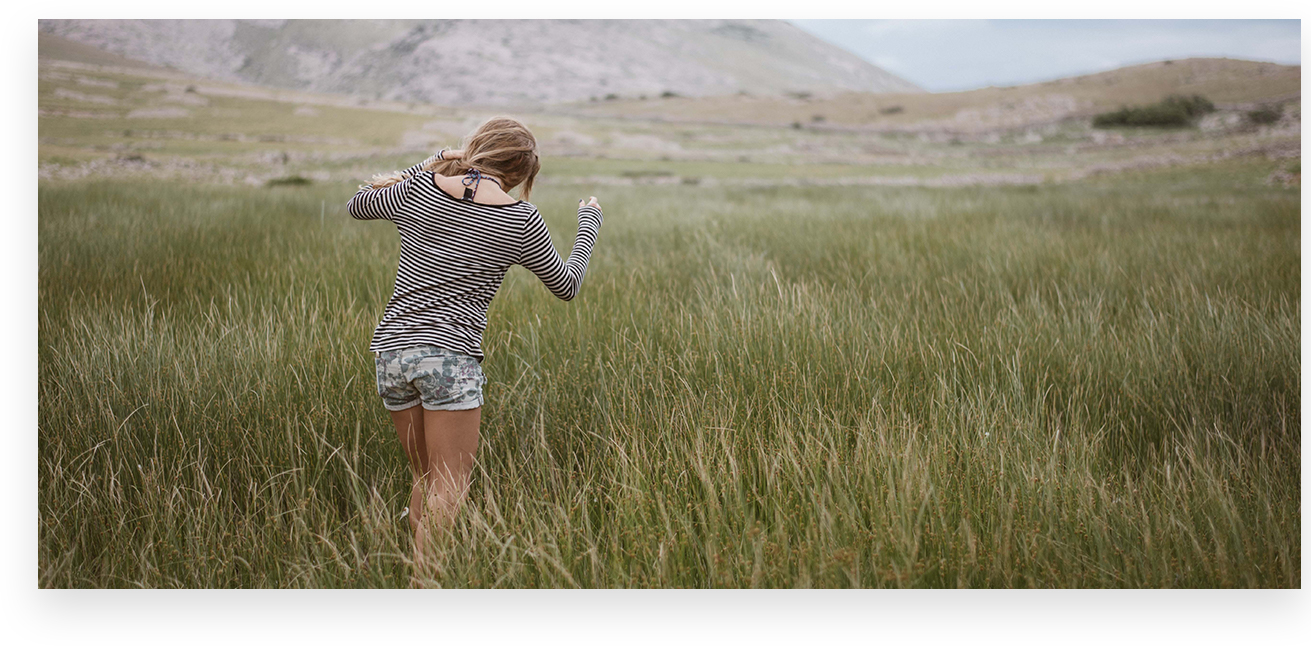
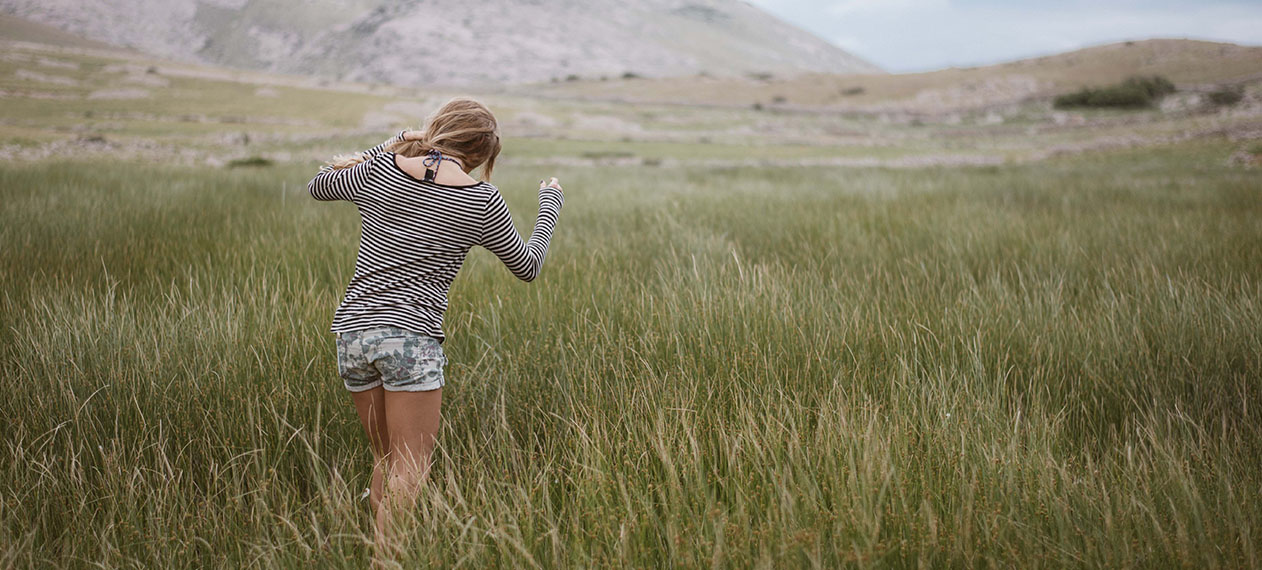
slider life done

diff --git a/css/blocks/main.css b/css/blocks/main.css
@@ -127,7 +127,7 @@
 	font-weight: 600;
 	text-transform: uppercase;
 	text-align: center;
-	font-style: 28px;
+	font-size: 28px;
 	line-height: 81PX;
 	letter-spacing: 5.6px;
 	color: #fff;
@@ -147,8 +147,8 @@
 	width: 335px;
 	position: absolute;
 	left: 50%;
-	transform: translateX(-50%);
 	bottom: 54px;
+	transform: translateX(-50%);
 	display: -webkit-flex;
 	display: -moz-flex;
 	display: -ms-flex;
@@ -163,13 +163,13 @@
 .readmore .readmore-text a {
 	font-family: 'Myriad Pro', Arial, sans-serif;
 	font-weight: 600;
-	font-size: 32px;
+	font-size: 24px;
 	font-style: italic;
 	color: #fff;
 }
 
 .readmore .readmore-text i {
-	font-size: 32px;
+	font-size: 24px;
 }
 
 .trekking-block {
@@ -263,6 +263,7 @@
 	display: -o-flex;
 	display: flex;
 	padding: 0 !important;
+	margin-bottom: 72px;
 }
 
 .food-travel [class^="block-"] .readmore {
@@ -274,6 +275,10 @@
 	background-repeat: no-repeat;
 	background-image: url("../../img/hand-hold.jpg");
 	margin-bottom: 37px;
+}
+
+.food-travel [class^="block-"] .readmore:hover {
+	box-shadow: 0 19px 36px 0 rgba(0, 0, 0, 0.15);
 }
 
 .food-travel .block-2 .readmore {
@@ -310,4 +315,181 @@
 .food-travel .block-step-text {
 	max-width: 100%;
 	padding-bottom: 72px;
+}
+
+/* slider */
+.lifestyle-slider {
+	position: relative;
+	width: 1248px;
+}
+
+.lifestyle-slider .lifestyle-block {
+	box-shadow: 0 0 0 0 rgba(0, 0, 0, 0.33);
+}
+
+.lifestyle-slider .lifestyle-block .image-lifestyle {
+	background-image: url("../../img/field.jpg");
+
+}
+
+.lifestyle-slider input {
+	display: none;
+}
+
+.lifestyle-slider-inner {
+	overflow-x: hidden;
+}
+
+.lifestyle-slider-slides {
+	width: 300%;
+	display: -webkit-flex;
+	display: -moz-flex;
+	display: -ms-flex;
+	display: -o-flex;
+	display: flex;
+	transition: all 1s ease;
+}
+
+.lifestyle-slider-slides [class^="slide-"] {
+	width: 1248px;
+}
+
+.lifestyle-slider-controls {
+	position: absolute;
+	bottom: 0;
+	left: 50%;
+	transform: translateX(-50%);
+	width: 1120px;
+}
+
+.lifestyle-slider-controls .arrows {
+	position: relative;
+}
+
+
+.lifestyle-slider-controls .buttons {
+	position: relative;
+	width: 200px;
+	bottom: -33px;
+	left: 50%;
+	transform: translateX(-50%);
+	display: -webkit-flex;
+	display: -moz-flex;
+	display: -ms-flex;
+	display: -o-flex;
+	display: flex;
+	justify-content: space-between;
+}
+
+.lifestyle-slider-controls .buttons label {
+	width: 55px;
+	height: 49px;
+	border-radius: 50%;
+	font-size: 20px;
+	font-weight: 700;
+	color: #413f3f;
+	line-height: 49px;
+	vertical-align: middle;
+	text-align: center;
+}
+
+#life-btn-1:checked ~ .lifestyle-slider-controls .buttons label:nth-child(1),
+#life-btn-2:checked ~ .lifestyle-slider-controls .buttons label:nth-child(2),
+#life-btn-3:checked ~ .lifestyle-slider-controls .buttons label:nth-child(3) {
+	background-color: #ffc908;
+}
+
+/* left arrow */
+#life-btn-1:checked ~ .lifestyle-slider-controls .arrows label:nth-child(3),
+#life-btn-2:checked ~ .lifestyle-slider-controls .arrows label:nth-child(1),
+#life-btn-3:checked ~ .lifestyle-slider-controls .arrows label:nth-child(2) {
+	position: absolute;
+	display: block;
+	top: 0;
+	left: 0;
+	width: 21px;
+	height: 10px;
+	background-image: url("../../img/slider-arrow.png");
+	z-index: 10;
+}
+
+#life-btn-1:checked ~ .lifestyle-slider-controls .arrows label:nth-child(3) {
+	opacity: 0.3;
+}
+
+#life-btn-1:checked ~ .lifestyle-slider-controls .arrows label:nth-child(3):active,
+#life-btn-2:checked ~ .lifestyle-slider-controls .arrows label:nth-child(1):active,
+#life-btn-3:checked ~ .lifestyle-slider-controls .arrows label:nth-child(2):active {
+	-webkit-filter: invert(1);
+	filter: invert(1);
+}
+
+#life-btn-1:checked ~ .lifestyle-slider-controls .arrows label:nth-child(3)::before,
+#life-btn-2:checked ~ .lifestyle-slider-controls .arrows label:nth-child(1)::before,
+#life-btn-3:checked ~ .lifestyle-slider-controls .arrows label:nth-child(2)::before {
+	position: absolute;
+	content: "Previous";
+	top: 50%;
+	left: 37px;
+	font-weight: 700;
+	color:  #575c5c;
+	font-size: 24px;
+	top: 50%;
+	transform: translateY(-50%);
+}
+
+#life-btn-1:checked ~ .lifestyle-slider-controls .arrows label:nth-child(3)::before {
+	color:  #959595;
+}
+
+/* right arrow */
+#life-btn-1:checked ~ .lifestyle-slider-controls .arrows label:nth-child(2),
+#life-btn-2:checked ~ .lifestyle-slider-controls .arrows label:nth-child(3),
+#life-btn-3:checked ~ .lifestyle-slider-controls .arrows label:nth-child(1) {
+	position: absolute;
+	display: block;
+	width: 21px;
+	height: 10px;
+	right: 0;
+	background-image: url("../../img/slider-arrow.png");
+	transform: scaleX(-1);
+}
+
+#life-btn-3:checked ~ .lifestyle-slider-controls .arrows label:nth-child(1) {
+	opacity: 0.3;
+}
+
+#life-btn-1:checked ~ .lifestyle-slider-controls .arrows label:nth-child(2):active,
+#life-btn-2:checked ~ .lifestyle-slider-controls .arrows label:nth-child(3):active,
+#life-btn-3:checked ~ .lifestyle-slider-controls .arrows label:nth-child(1):active {
+	-webkit-filter: invert(1);
+	filter: invert(1);
+}
+
+#life-btn-1:checked ~ .lifestyle-slider-controls .arrows label:nth-child(2):before,
+#life-btn-2:checked ~ .lifestyle-slider-controls .arrows label:nth-child(3):before,
+#life-btn-3:checked ~ .lifestyle-slider-controls .arrows label:nth-child(1):before {
+	position: absolute;
+	content: "Next";
+	top: -14px;
+	right: -70px;
+	font-weight: 700;
+	color:  #575c5c;
+	font-size: 24px;
+	transform: translateY(-50%);
+	transform: scaleX(-1);
+}
+
+#life-btn-3:checked ~ .lifestyle-slider-controls .arrows label:nth-child(1):before {
+	color:  #959595;
+}
+
+#life-btn-1:checked ~ .lifestyle-slider-inner .lifestyle-slider-slides {
+	transform: translateX(0);
+}
+#life-btn-2:checked ~ .lifestyle-slider-inner .lifestyle-slider-slides {
+	transform: translateX(-1248px);
+}
+#life-btn-3:checked ~ .lifestyle-slider-inner .lifestyle-slider-slides {
+	transform: translateX(-2496px);
 }

diff --git a/index.html b/index.html
@@ -294,8 +294,8 @@
 								<div class="readmore-wrap">
 									<a href="#">Readmore</a>
 									<div class="readmore-text">
-										<p>April 19, 2017</p>
-										<a href="#"><i class="far fa-heart"></i>100</a>
+										<p>April 19, 2017</p><span>.</span>
+										<a href="#"><i class="far fa-heart"></i>100</a><span>.</span>
 										<a href="#"><i class="far fa-comment"></i>20</a>
 									</div>
 								</div>
@@ -323,8 +323,8 @@
 								<div class="readmore-wrap">
 									<a href="#">Readmore</a>
 									<div class="readmore-text">
-										<p>April 19, 2017</p>
-										<a href="#"><i class="far fa-heart"></i>100</a>
+										<p>April 19, 2017</p><span>.</span>
+										<a href="#"><i class="far fa-heart"></i>100</a><span>.</span>
 										<a href="#"><i class="far fa-comment"></i>20</a>
 									</div>
 								</div>
@@ -343,6 +343,96 @@
 										<a class="social-btn fb-btn" href="#"><i class="fab fa-facebook-f"></i></a>
 										<a class="social-btn tt-btn" href="#"><i class="fab fa-twitter"></i></a>
 										<a class="social-btn ig-btn" href="#"><i class="fab fa-instagram"></i></a>
+									</div>
+								</div>
+							</div>
+						</div>
+					</div>
+					<div class="lifestyle-slider">
+						<input id="life-btn-1" type="radio" name="switch">
+						<input id="life-btn-2" type="radio" name="switch" checked>
+						<input id="life-btn-3" type="radio" name="switch">
+						<div class="lifestyle-slider-controls">
+							<div class="buttons">
+								<label for="life-btn-1">1</label>
+								<label for="life-btn-2">2</label>
+								<label for="life-btn-3">3</label>
+							</div>
+							<div class="arrows">
+								<label for="life-btn-1"></label>
+								<label for="life-btn-2"></label>
+								<label for="life-btn-3"></label>
+							</div>
+						</div>
+						<div class="lifestyle-slider-inner">
+							<div class="lifestyle-slider-slides">
+								<div class="slide-1">
+									<div class="lifestyle-block content-blocks">
+										<div class="image-lifestyle">
+										</div>
+										<p class="title3">Lifestyle</p>
+										<div class="lifestyle-text">
+											<p>The Vermont Delegation Mourns the Sanders Campaign</p>
+											<div class="inner-text">
+												<span>March 22, 2017</span><span>.</span>
+												<a href="#"><i class="far fa-heart"></i>100 Likes</a><span>.</span>
+												<a href="#"><i class="far fa-comment"></i>20 Comment</a>
+											</div>
+										</div>
+										<div class="block-step-text">
+											<a class="btn" href="#">Readmore</a>
+											<div class="step-text-social">
+												<a class="social-btn fb-btn" href="#"><i class="fab fa-facebook-f"></i></a>
+												<a class="social-btn tt-btn" href="#"><i class="fab fa-twitter"></i></a>
+												<a class="social-btn ig-btn" href="#"><i class="fab fa-instagram"></i></a>
+											</div>
+										</div>
+									</div>
+								</div>				
+								<div class="slide-2">
+									<div class="lifestyle-block content-blocks">
+										<div class="image-lifestyle">
+										</div>
+										<p class="title3">Lifestyle</p>
+										<div class="lifestyle-text">
+											<p>The Vermont Delegation Mourns the Sanders Campaign</p>
+											<div class="inner-text">
+												<span>March 22, 2017</span><span>.</span>
+												<a href="#"><i class="far fa-heart"></i>100 Likes</a><span>.</span>
+												<a href="#"><i class="far fa-comment"></i>20 Comment</a>
+											</div>
+										</div>
+										<div class="block-step-text">
+											<a class="btn" href="#">Readmore</a>
+											<div class="step-text-social">
+												<a class="social-btn fb-btn" href="#"><i class="fab fa-facebook-f"></i></a>
+												<a class="social-btn tt-btn" href="#"><i class="fab fa-twitter"></i></a>
+												<a class="social-btn ig-btn" href="#"><i class="fab fa-instagram"></i></a>
+											</div>
+										</div>
+									</div>
+								</div>				
+								<div class="slide-3">
+									<div class="lifestyle-block content-blocks">
+										<div class="image-lifestyle">
+										</div>
+										<p class="title3">Lifestyle</p>
+										<div class="lifestyle-text">
+											<p>The Vermont Delegation Mourns the Sanders Campaign</p>
+											<div class="inner-text">
+												<span>March 22, 2017</span><span>.</span>
+												<a href="#"><i class="far fa-heart"></i>100 Likes</a><span>.</span>
+												<a href="#"><i class="far fa-comment"></i>20 Comment</a>
+											</div>
+										</div>
+										<div class="block-step-text">
+											<a class="btn" href="#">Readmore</a>
+											<div class="step-text-social">
+												<a class="social-btn fb-btn" href="#"><i class="fab fa-facebook-f"></i></a>
+												<a class="social-btn tt-btn" href="#"><i class="fab fa-twitter"></i></a>
+												<a class="social-btn ig-btn" href="#"><i class="fab fa-instagram"></i></a>
+											</div>
+										</div>
 									</div>
 								</div>
 							</div>

diff --git a/css/core.css b/css/core.css
@@ -76,6 +76,7 @@
 	display: -o-flex;
 	display: flex;
 	padding: 0 10px;
+	margin-bottom: 70px;
 }
 
 a {
